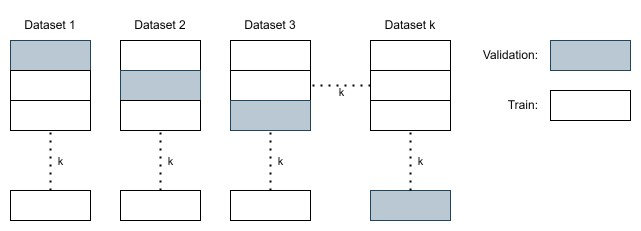
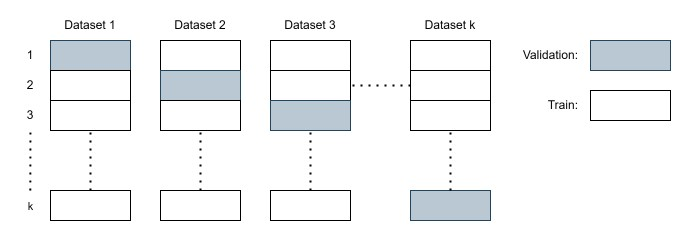
Script baseline.

diff --git a/dataset_shuffler_for_yolo.py b/dataset_shuffler_for_yolo.py
@@ -1,0 +1,207 @@
+import os
+import random
+import copy
+import shutil
+import sys
+import argparse
+
+parser = argparse.ArgumentParser()
+
+verbose = """What is this script for?
+> It provides to create k different datasets that have k different validation sets from base dataset.
+> It is similiar to k-fold cross validation method. But this script creates k different dataset.
+
+How it works?
+> Script reads all of the labels that in given in the label path. 
+> It accepts the first labeled class in the label file as the class of the label file. And counts number of labels for each class.
+> To get validation size of each class, divides number of each class value to k value.
+> Script uses "random.randint" to create k different "randomize" validation sets. 
+> Saves each generated dataset to "generatedCrossValDataSet" folder as set_x.
+
+How to use?
+> Script gets 4 parameters.
+>> -img_path=your_image_files_directory
+>> -lbl_path=your_label_files_directory
+>> -nof_cls=number_of_class_of_your_dataset
+>> -k=number_of_dataset_that_will_be_created
+
+Here is an example for generating 5 different dataset from helper_data_v5_2_whole file that have 5 classes: 
+
+python dataset_shuffler_for_yolo.py -img_path=helper_data_v5_2_whole/images -lbl_path=helper_data_v5_2_whole/labels -nof_cls=5 -k=5"""
+
+parser.add_argument("-img_path", help="Directory path of all images.", type=str)
+parser.add_argument("-lbl_path", help="Directory path of all labels.", type=str)
+parser.add_argument("-nof_cls", help="Number of classes in dataset.", type=int)
+parser.add_argument("-k", help="Number of datasets that will be created.", type=int)
+parser.add_argument("-verbose", help="Usage and detailed info.", action="store_true")
+args = parser.parse_args()
+
+if args.verbose:
+    print(verbose)
+    sys.exit()
+if args.nof_cls < 1:
+    print("Non-valid nof_cls value input")
+    sys.exit()
+if args.k < 1:
+    print("Non-valid k value input.")
+    sys.exit()
+if not os.path.isdir(args.lbl_path):
+    print("Label directory doesn't exist: " + args.lbl_path)
+    sys.exit()
+if not os.path.isdir(args.img_path):
+    print("Image directory doesn't exist: " + args.img_path)
+    sys.exit()
+
+
+imgPath = args.img_path
+lblPath = args.lbl_path
+nofClass = args.nof_cls
+kVal = args.k
+
+if imgPath[-1] != '/' or imgPath[-1] != '\\':
+    imgPath += '/'
+if lblPath[-1] != '/' or lblPath[-1] != '\\':
+    lblPath += '/'
+
+# script runs for .jpg, .jpeg, and .png files.
+# if you have different image file extension like
+# .bmp add it in "ADD ME" sections :)
+
+images = os.listdir(imgPath)
+labels = os.listdir(lblPath)
+
+lLabels = [[] for _ in range(nofClass)]
+allLabels = []
+
+print("Reading label files...")
+for i in labels: # creating list that contains labels for each class.
+    if '.txt' not in i:
+        continue
+    f = open(lblPath + i, 'r')
+    lblVal = f.read()
+    if(len(lblVal) == 0):
+        print(i)
+    lblVal = lblVal[0]
+    lLabels[int(lblVal)].append(i)
+    allLabels.append(i)
+    
+print("Reading files completed.")
+
+nofLabels4EachClass = []
+
+for i in range(nofClass):
+    nofLabels4EachClass.append(int(len(lLabels[i]) / kVal))
+
+trainLabels = [[[]] for _ in range(nofClass)]
+valLabels = [[[]] for _ in range(nofClass)]
+
+print("Generating shuffled labels...")
+# creating validation sets
+for i in range(nofClass):
+    tmpClassLabels = lLabels[i]
+    tmpValLabelList = [[] for _ in range(kVal)]
+    for j in range(kVal):
+        classVal = nofLabels4EachClass[i]
+        tmpValLabel = []
+        while classVal > 0:
+            n = random.randint(0, len(tmpClassLabels) - 1)
+            classVal = classVal - 1
+            tmpValLabel.append(tmpClassLabels[n])
+            del tmpClassLabels[n]
+        tmpValLabelList[j].append(tmpValLabel)
+    valLabels[i].append(tmpValLabelList)
+
+for i in range(nofClass):
+    for j in range(len(lLabels[i])):
+        valLabels[i][1][j][0].append(lLabels[i][j])
+        
+print("Shuffled labels generated.")        
+trainSet = []
+valSet = []
+
+print("Creating datasets...")   
+for i in range(kVal):
+    #tmpTrainDataSet = allLabels.copy()
+    tmpTrainDataSet = copy.deepcopy(allLabels)
+    tmpValDataSet = []
+    for j in range(nofClass):
+        tmpValDataSetClass = []
+        for k in range(len(valLabels[j][1][i][0])):
+            tmpValDataSetClass.append(valLabels[j][1][i][0][k])
+            tmpIndex = tmpTrainDataSet.index(tmpValDataSetClass[k])
+            del tmpTrainDataSet[tmpIndex]
+        tmpValDataSet.append(tmpValDataSetClass)
+    trainSet.append(tmpTrainDataSet) # train
+    valSet.append(tmpValDataSet)
+
+print("Datasets created.")
+
+valSetVectorized = []       
+for i in range(kVal):
+    tmpValSetVectorized = []
+    for j in range(nofClass):
+        for k in range(len(valSet[i][j])):
+            tmpValSetVectorized.append(valSet[i][j][k])
+    valSetVectorized.append(tmpValSetVectorized) # validation
+
+folderName = "generatedCrossValDataSet"
+kThDataSetFolderName = "set_"
+
+if os.path.isdir(folderName):
+    os.rmdir(folderName) # removing existing dataset.
+    os.mkdir(folderName)
+else:
+    os.mkdir(folderName)
+    
+print("Copying files...")
+for i in range(kVal):
+    tmpFolderName = kThDataSetFolderName + str(i + 1)
+    tmpDir = folderName + "/" + tmpFolderName
+    tmpLabelFolder = tmpDir + "/" + "labels"
+    tmpImageFolder = tmpDir + "/" + "images"
+    os.mkdir(tmpDir)
+    os.mkdir(tmpLabelFolder)
+    os.mkdir(tmpImageFolder)
+    tmpTrainLabelFolder = tmpLabelFolder + "/train"
+    os.mkdir(tmpTrainLabelFolder)
+    tmpValLabelFolder = tmpLabelFolder + "/val"
+    os.mkdir(tmpValLabelFolder)
+    tmpTrainImageFolder = tmpImageFolder + "/train"
+    os.mkdir(tmpTrainImageFolder)
+    tmpValImageFolder = tmpImageFolder + "/val"
+    os.mkdir(tmpValImageFolder)
+    
+    for j in range(len(trainSet[i])):
+        fileName = trainSet[i][j]
+        shutil.copy(lblPath + trainSet[i][j], tmpTrainLabelFolder) # copying training labels.
+        fileName = fileName[:-4] # removing ".txt" file extension.
+        #ADD ME
+        if os.path.isfile(imgPath + fileName + ".jpg"):
+           tmpImgFileName = fileName + ".jpg"
+        elif os.path.isfile(imgPath + fileName + ".png"):
+             tmpImgFileName = fileName + ".png"
+        elif os.path.isfile(imgPath + fileName + ".jpeg"):
+             tmpImgFileName = fileName + ".jpeg"
+        else:
+            print("File extension non-exist in this script.")
+            print(fileName)
+            continue
+        shutil.copy(imgPath + tmpImgFileName, tmpTrainImageFolder + "//")
+        
+    for j in range(len(valSetVectorized[i])):
+        fileName = valSetVectorized[i][j]
+        shutil.copy(lblPath + valSetVectorized[i][j], tmpValLabelFolder + "//") # copying training labels.
+        fileName = fileName[:-4] # removing ".txt" file extension.
+        #ADD ME
+        if os.path.isfile(imgPath + fileName + ".jpg"):
+            tmpImgFileName = fileName + ".jpg"
+        elif os.path.isfile(imgPath + fileName + ".png"):
+            tmpImgFileName = fileName + ".png"
+        elif os.path.isfile(imgPath + fileName + ".jpeg"):
+            tmpImgFileName = fileName + ".jpeg"
+        else:
+            print("File extension non-exist in this script.")
+            print(fileName)
+            continue
+        shutil.copy(imgPath + tmpImgFileName, tmpValImageFolder + "//")
+print("Datasets generated! Number of created generated: " + str(i + 1))

diff --git a/README.md b/README.md
@@ -13,7 +13,7 @@ Generates datasets for cross validation with less dependency and in a easy way.
 - It provides to create k different datasets that have k different validation sets from base dataset.
 - It is similiar to k-fold cross validation method. But this script creates k different dataset.
 
-![dataset_shuffler_how_it_works](https://github.com/bahadiryildirimeem/Dataset_Shuffler_For_YOLO/assets/45585791/6d59df38-4a5b-40d1-a33c-e20849633bea)
+![dataset_shuffler_how_it_works](https://github.com/bahadiryildirimeem/Dataset_Shuffler_For_YOLO/assets/45585791/21cf9768-2783-46c2-b484-d25b23d8427b)
 
 # How it works?
 - Script reads all of the labels that in given in the label path. 
@@ -24,10 +24,10 @@ Generates datasets for cross validation with less dependency and in a easy way.
 
 # How to use?
 -  Script gets 4 parameters.
-- > -img_path=your_image_files_directory
-- > -lbl_path=your_label_files_directory
-- > -nof_cls=number_of_class_of_your_dataset
-- > -k=number_of_dataset_that_will_be_created
+  > -img_path=your_image_files_directory
+  > -lbl_path=your_label_files_directory
+  > -nof_cls=number_of_class_of_your_dataset
+  > -k=number_of_dataset_that_will_be_created
 
 Here is an example for generating 5 different dataset from helper_data_v5_2_whole file that have 5 classes: 
 
